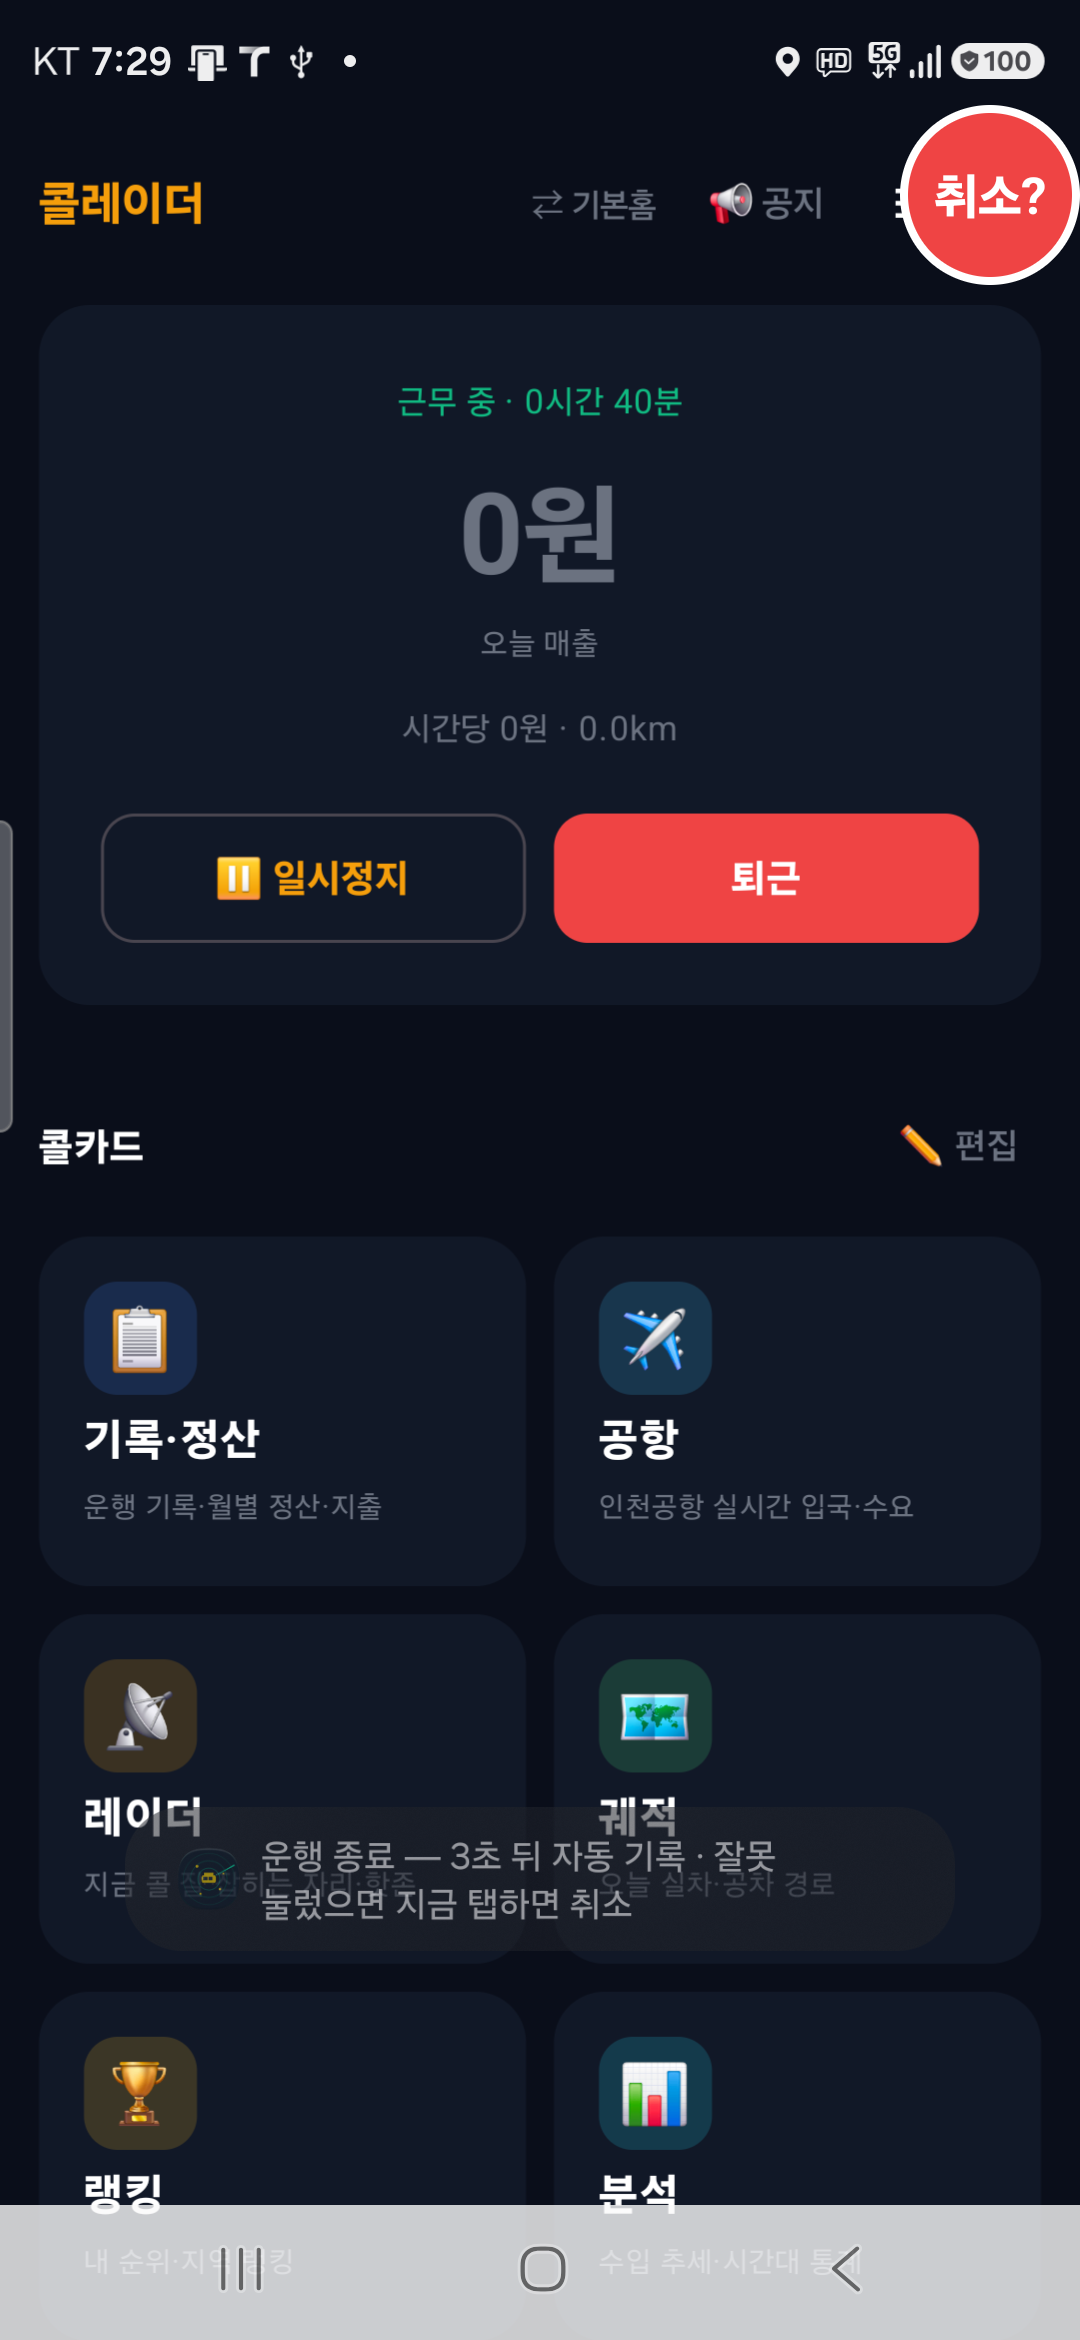
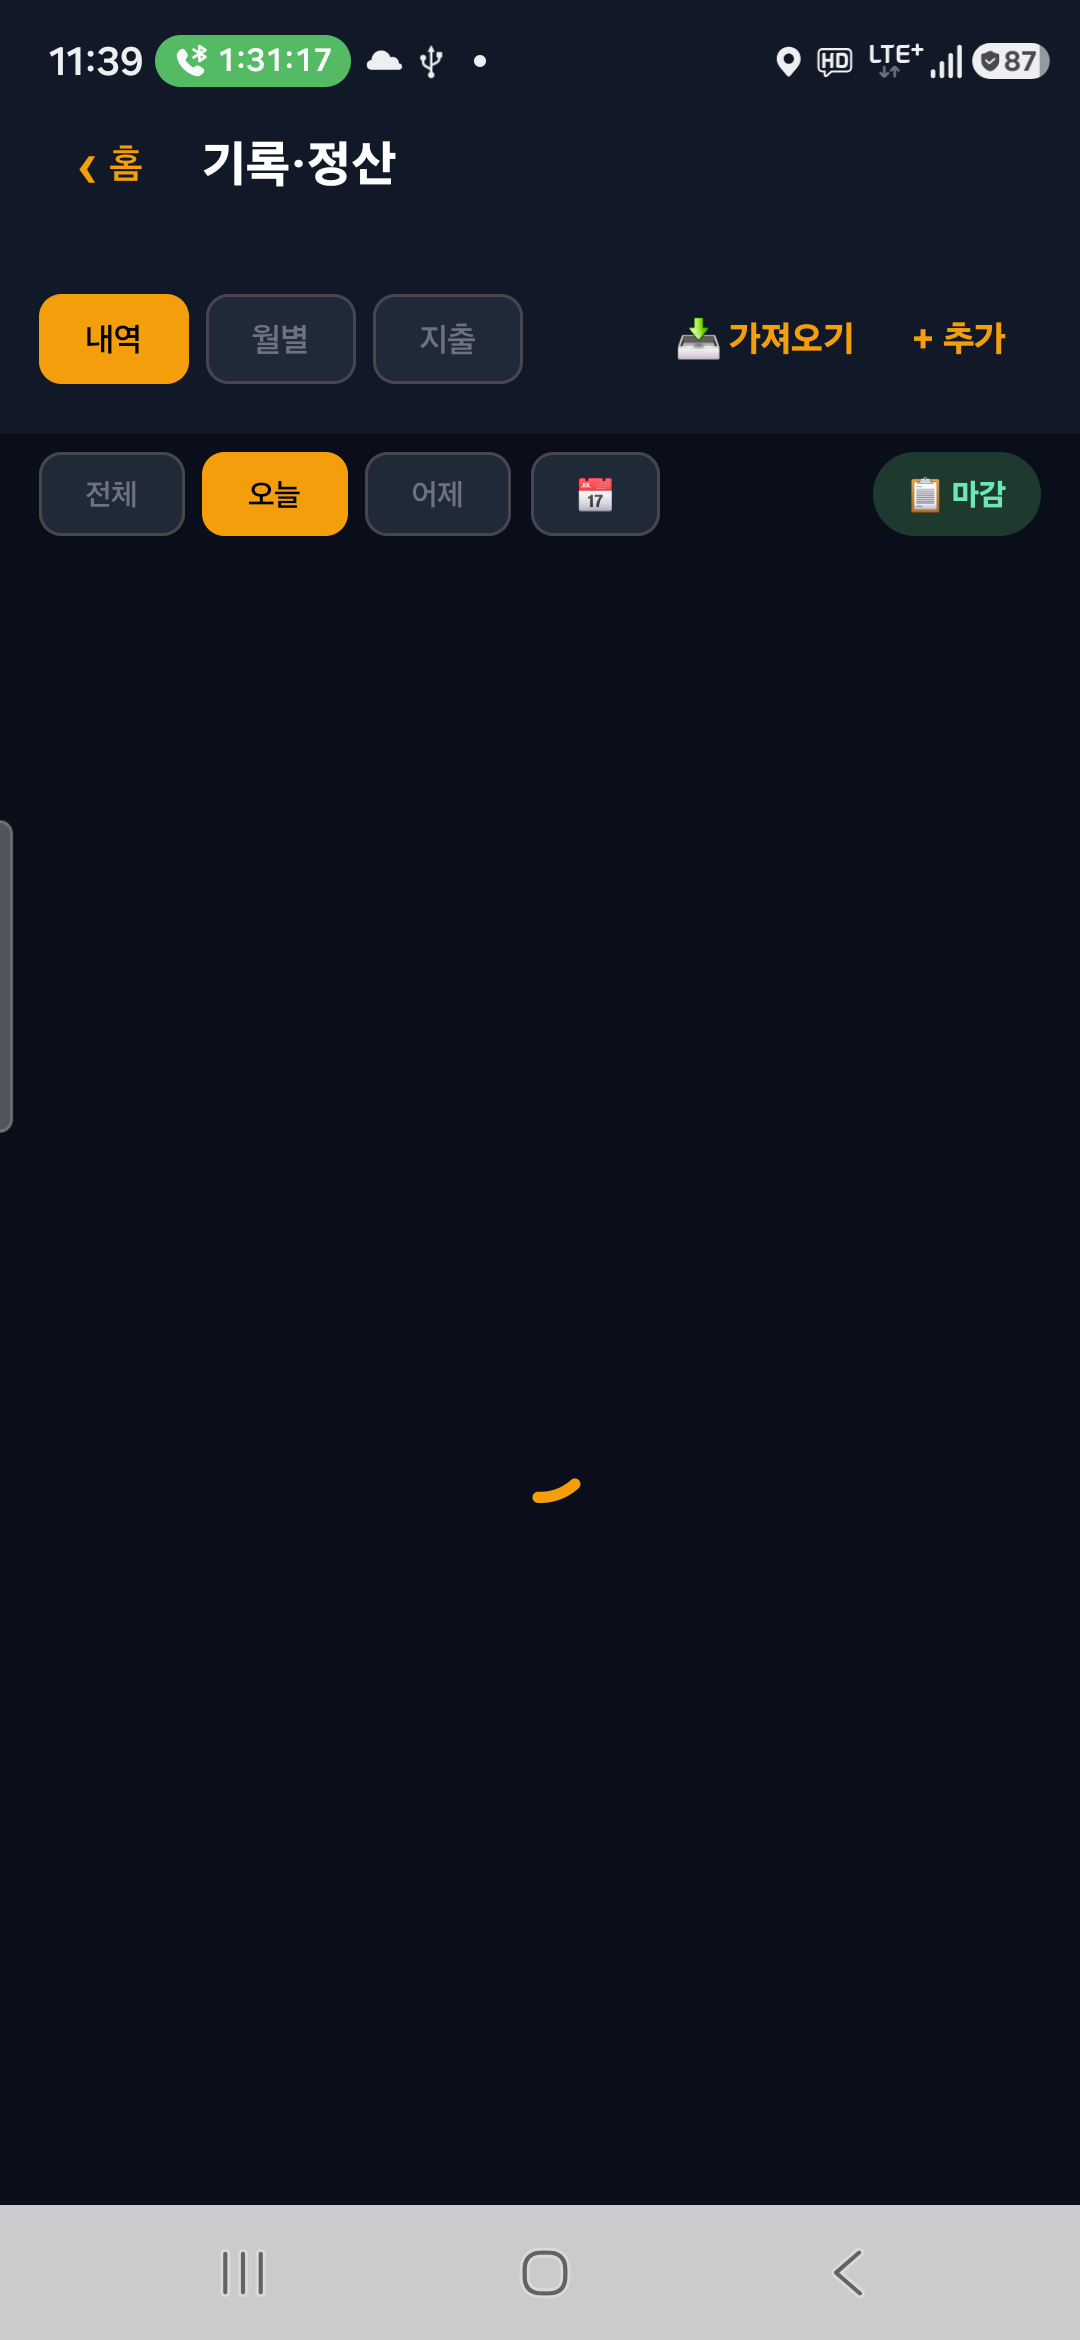
v86-prep: same-day work receipt replace (dup fix)

diff --git a/app/src/main/java/com/callradar/app/screen/HomeScreen.kt b/app/src/main/java/com/callradar/app/screen/HomeScreen.kt
@@ -675,8 +675,16 @@ fun HomeScreen(nickname: String, userId: String, refreshKey: Int, onLogout: () -
                     com.callradar.app.TimingLog.send(context, "shift_end", amount = sFare)
                     try {
                         val log = try { JSONArray(prefs.getString("work_session_log", "[]")) } catch (e: Exception) { JSONArray() }
-                        log.put(JSONObject().apply { put("end", now); put("grossMin", sumGrossMin); put("netMin", sumNetMin); put("distKm", sumDistKm.toDouble()); put("fare", sFare); put("perHour", sumPerHour) })
-                        val trimmed = if (log.length() > 90) JSONArray().also { for (i in log.length() - 90 until log.length()) it.put(log.get(i)) } else log
+                        // [중복영수증 수정] 영수증은 '하루 누적 스냅샷' → 같은 날(KST) 재퇴근이면 이전 항목 대체.
+                        //  (퇴근 후 자동대기 배지 탭 → 자동 재출근 → 재퇴근 시 같은 값이 두 줄 쌓이던 문제)
+                        val dayOf = { ms: Long -> (ms + 9L * 3600_000L) / 86_400_000L }
+                        val kept = JSONArray()
+                        for (i in 0 until log.length()) {
+                            val e0 = log.optJSONObject(i) ?: continue
+                            if (dayOf(e0.optLong("end", 0L)) != dayOf(now)) kept.put(e0)
+                        }
+                        kept.put(JSONObject().apply { put("end", now); put("grossMin", sumGrossMin); put("netMin", sumNetMin); put("distKm", sumDistKm.toDouble()); put("fare", sFare); put("perHour", sumPerHour) })
+                        val trimmed = if (kept.length() > 90) JSONArray().also { for (i in kept.length() - 90 until kept.length()) it.put(kept.get(i)) } else kept
                         prefs.edit().putString("work_session_log", trimmed.toString()).apply()
                     } catch (e: Exception) {}
                     // [v56] 근무세션 요약(시간·km·매출) 서버 저장 — 퇴근 시 1회. 진단·크로스디바이스용, 좌표 아닌 집계값이라 부담 거의 없음.
